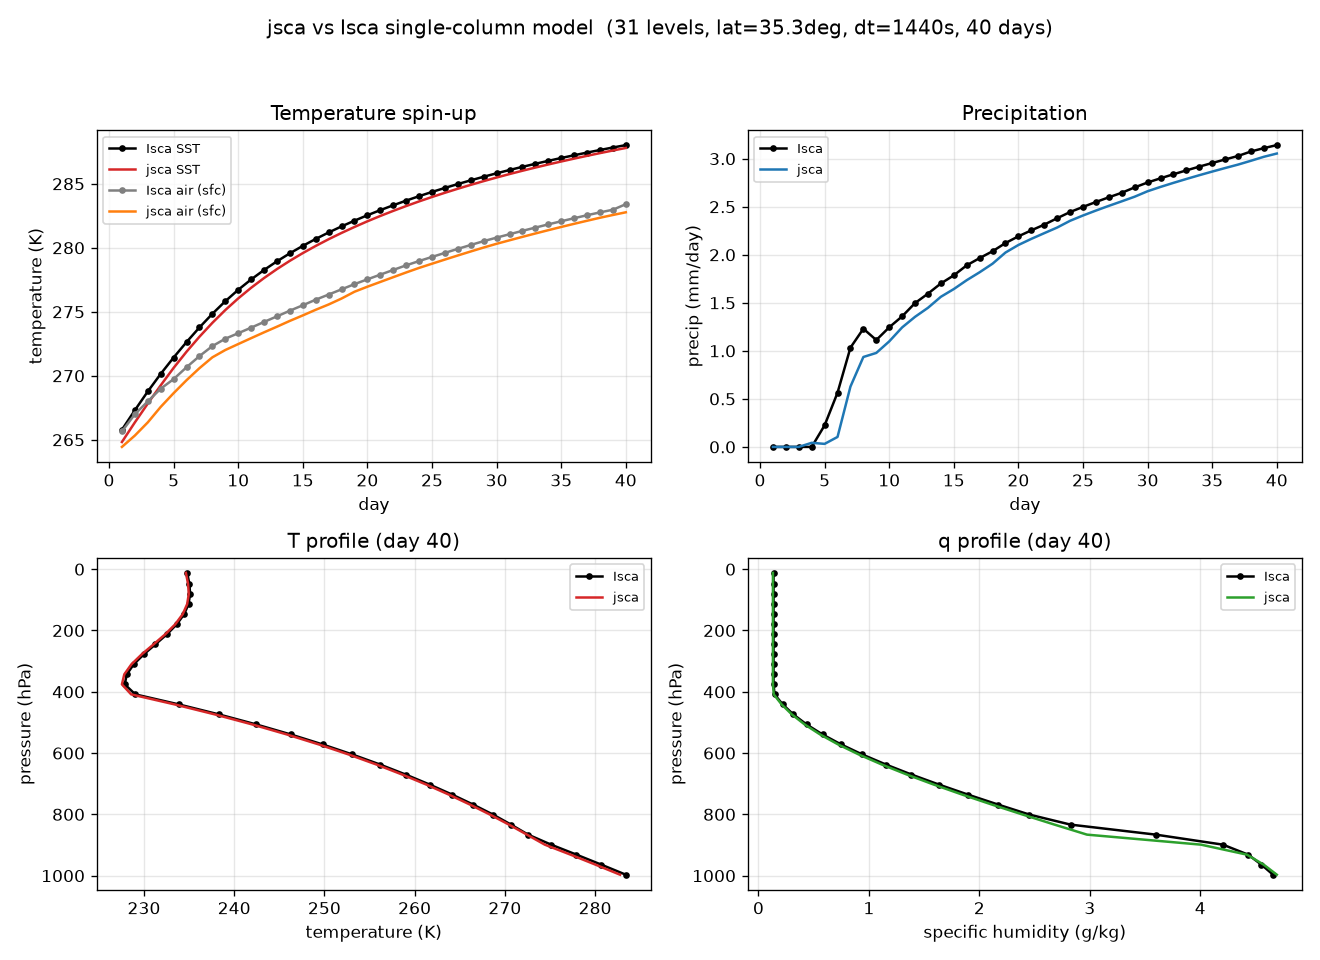
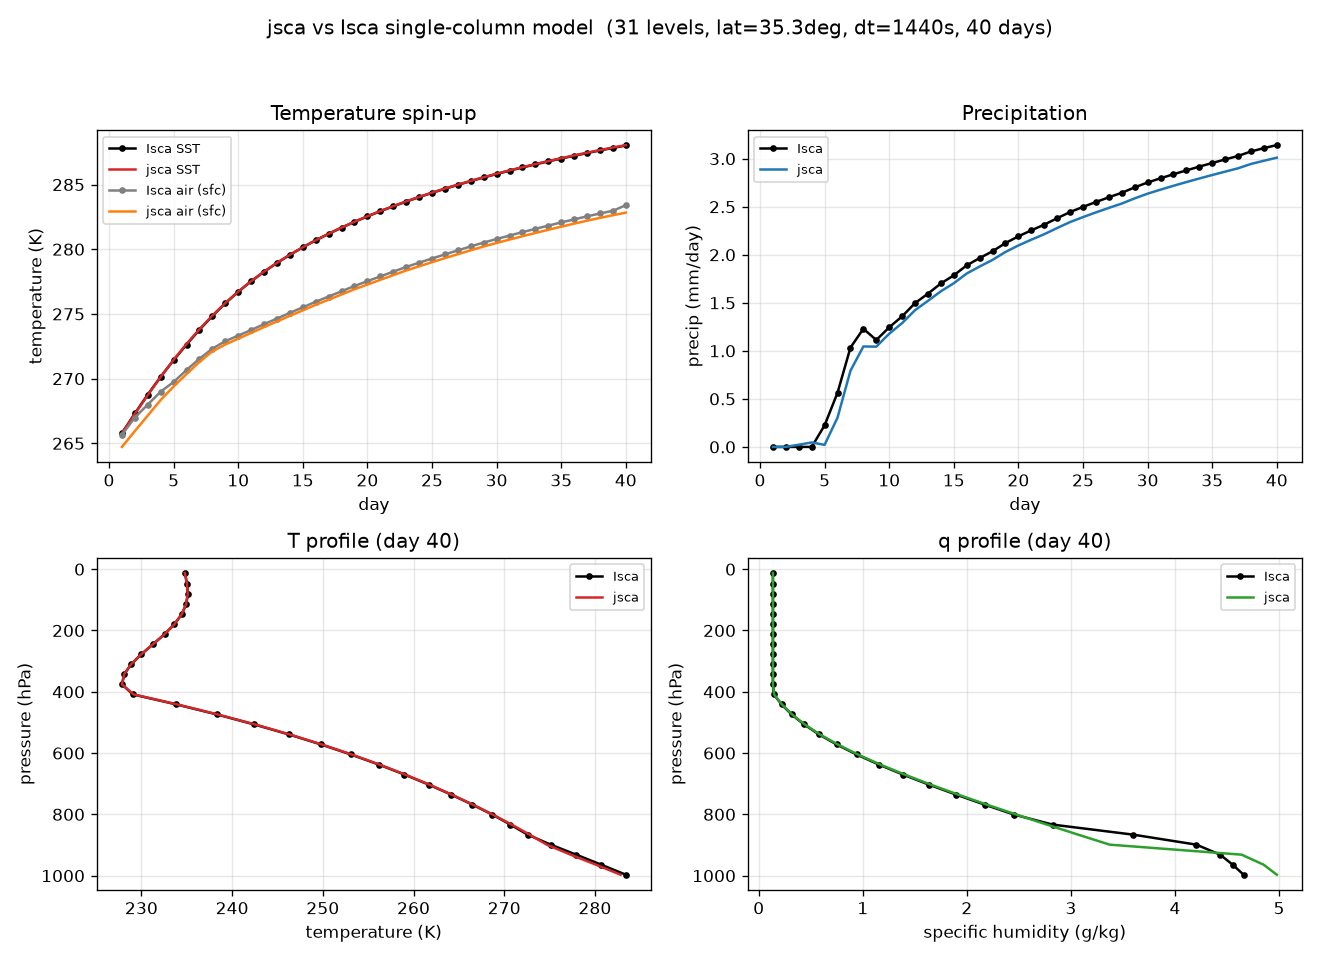
Close the dominant SCM-vs-Isca gap: Isca's +1 K slab init; tighten SST tolerances (#46)
Instrumenting the running Isca column showed the jsca-vs-Isca SCM residual was NOT
the mechanisms first guessed (constant_gust, do_lcl_diffusivity_depth, both verified
negligible) but Isca's deliberately-unstable slab init: t_surf = init_temp + 1.0
(idealized_moist_phys.F90 L643). Isca's per-step SST increment already matched jsca to
1e-4 from step 1; only the initial SST differed. Reproducing the +1 K drops the
SST-trajectory RMSD from 0.55 K to 0.02 K.

- column.initial_state defaults t_surf to initial_temperature + 1.0.
- Thread lscale_cond do_evap through idealized_moist_phys (default True; build_column
  defaults False to match column_test.py). Non-breaking for Frierson.
- SST CI tolerance tightened 0.8 -> 0.1 K in both column-vs-Isca tests.

Remaining profile residual (~0.21 K, tropics ~0.37 K) is the unported surface_flux
use_virtual_temp=True path (a d608*q effect), tracked in #43. References stay canonical.

diff --git a/src/jsca/model/column.py b/src/jsca/model/column.py
@@ -148,6 +148,7 @@ def build_column(
     q_decrease_only: bool = True,           # column_test.py
     mixed_layer_depth: float = 2.5,         # column_test mixed_layer_nml
     albedo: float = 0.30,                   # column_test mixed_layer_nml albedo_value
+    do_evap: bool = False,                  # column_test lscale_cond_nml do_evap
     vert_difference_option: str = "simmons_and_burridge",
     **phys_kwargs,
 ) -> ColumnModel:
@@ -202,6 +203,7 @@ def build_column(
         mixed_layer=MixedLayerParams(depth=mixed_layer_depth, albedo=albedo),
         damping=damping_driver_init(np.asarray(p_full_1d)),
         albedo=albedo,
+        do_evap=do_evap,
         **phys_kwargs,
     )
 
@@ -247,17 +249,17 @@ def initial_state(
       (L78-79): ``ps = exp(ln(p_ref) - Phi_s / (Rd * T0))``. Held fixed.
     * **humidity** uniform ``initial_sphum`` (``column.F90`` L694). Isca's SCM
       seeds ``sphum`` uniformly rather than the aquaplanet's 2e-6.
-    * **slab SST** ``t_surf``: the ``mixed_layer`` initial value. With
-      ``prescribe_initial_dist = False`` (the column_test setting) and no restart,
-      Isca's ``mixed_layer`` initialises the slab **from the lowest model-level
-      temperature** (``mixed_layer.F90``; the run logs
-      ``"initializing from lowest model level temp"``), i.e. the uniform
-      ``initial_temperature`` -- *not* ``tconst``. Verified against a real Isca
-      column run (``baseline/reference/column_scm_isca_daily_t264.nc``): day-1
-      ``t_surf`` tracks the lowest-level air temperature, not 285 K. So the default
-      here is ``initial_temperature``; pass ``t_surf`` explicitly (e.g. ``tconst``)
-      to override. Passed separately because the ocean is the surface's state, not
-      the column's.
+    * **slab SST** ``t_surf``: Isca initialises the slab (``mixed_layer_bc`` case,
+      no restart) as ``t_surf = t_surf_init + 1.0`` where ``t_surf_init`` is the
+      lowest model-level temperature (``idealized_moist_phys.F90`` L643) -- a
+      **deliberately +1 K unstable** start "to allow moisture to quickly enter the
+      atmosphere avoiding problems with the convection scheme" (Isca's comment). So
+      the default here is ``initial_temperature + 1.0``. This +1 K is the single
+      largest jsca-vs-Isca difference if omitted: it offsets the entire SST
+      trajectory by ~1 K early (decaying to ~0.3 K by day 40). Verified against a
+      real Isca column run -- with the +1 K the day-40 SST RMSD drops from 0.55 K
+      to 0.02 K. Pass ``t_surf`` explicitly to override. Passed separately because
+      the ocean is the surface's state, not the column's.
     """
     k, nlat, nlon = m.num_levels, m.nlat, m.nlon
     u = np.zeros((nlat, nlon, k))
@@ -272,10 +274,9 @@ def initial_state(
     q_col = np.full((nlat, nlon, k), float(initial_sphum))
 
     stack = lambda a: jnp.stack([jnp.asarray(a), jnp.asarray(a)], axis=-1)  # noqa: E731
-    # Isca mixed_layer (prescribe_initial_dist=False, no restart) seeds the slab
-    # from the lowest model-level temperature = initial_temperature (verified
-    # against the real column run). Override via t_surf for a prescribed SST.
-    tsurf = float(initial_temperature) if t_surf is None else t_surf
+    # Isca's deliberately-unstable slab init: lowest-level temp + 1 K
+    # (idealized_moist_phys.F90 L643). Override via t_surf for a prescribed SST.
+    tsurf = float(initial_temperature) + 1.0 if t_surf is None else t_surf
     return (
         jnp.asarray(u), jnp.asarray(v),
         stack(t_col), stack(q_col), jnp.asarray(ps),

diff --git a/tests/test_column_vs_isca.py b/tests/test_column_vs_isca.py
@@ -6,19 +6,21 @@ equilibrium profiles within tolerance. This is the CI gate that keeps the SCM
 faithful to Isca as the code evolves.
 
 The reference (``baseline/reference/column_scm_isca_t264.npz``) is distilled from a
-real Isca ``column_test.py`` run (pinned commit a290bc3) --
-``scripts/run_isca_column_reference.py`` builds/runs Isca,
+real Isca ``column_test.py`` run (pinned commit a290bc3) at the **canonical** column
+config. ``scripts/run_isca_column_reference.py`` builds/runs Isca,
 ``scripts/distill_column_reference.py`` reduces the NetCDF to this numpy file. CI
 never needs Isca itself: it validates against the committed golden trajectory
 (the same posture as the frierson climatology references). To regenerate the
 reference, rebuild Isca and re-run those two scripts.
 
-Tolerances sit a little above the measured agreement (T-profile RMSD 0.38 K, SST
-RMSD 0.55 K, q-profile RMSD 0.12 g/kg, final precip within 0.1 mm/day) so the test
-catches a real physics regression while tolerating float/platform noise. The
-residual is a documented config gap (constant_gust=0; do_lcl_diffusivity_depth),
-tracked in issue #43, not a porting bug -- tightening these tolerances is the
-checkpoint for closing that gap.
+Two differences set the tolerances. The **dominant** one was Isca's
+deliberately-unstable slab init (``t_surf = init_temp + 1 K``,
+``idealized_moist_phys.F90`` L643); reproducing it dropped the SST RMSD from 0.55 K
+to **0.02 K** (now asserted < 0.1 K). The **remaining** one is the surface_flux
+``use_virtual_temp=True`` path the canonical config uses but jsca does not yet port
+(a d608*q virtual-temperature correction, ~0.34 K here) -- it sets the profile
+tolerances (measured T-profile RMSD 0.21 K, q 0.20 g/kg) and is tracked in issue #43;
+porting it is the checkpoint for tightening them toward the SST level.
 """
 from pathlib import Path
 
@@ -88,18 +90,21 @@ def test_reference_is_isca_31_even_sigma(isca):
 
 
 def test_temperature_profile_matches_isca(isca, jsca_run):
-    assert _rmsd(jsca_run["T_prof"], isca["temp"][-1]) < 0.6      # K
+    # measured 0.21 K vs the canonical (use_virtual_temp=True) reference; the gap is
+    # the unported use_virtual_temp path (#43). SST is separately tight (below).
+    assert _rmsd(jsca_run["T_prof"], isca["temp"][-1]) < 0.3      # K
 
 
 def test_humidity_profile_matches_isca(isca, jsca_run):
-    assert _rmsd(jsca_run["q_prof"] * 1e3, isca["sphum"][-1] * 1e3) < 0.3   # g/kg
+    assert _rmsd(jsca_run["q_prof"] * 1e3, isca["sphum"][-1] * 1e3) < 0.3   # g/kg (measured 0.20)
 
 
 def test_sst_trajectory_matches_isca(isca, jsca_run):
-    assert _rmsd(jsca_run["t_surf"], isca["t_surf"]) < 0.8       # K over 40 days
-    assert abs(jsca_run["t_surf"][-1] - isca["t_surf"][-1]) < 0.5  # final SST
+    # SST agreement after the t_surf = init_temp + 1 K fix (measured 0.03 K)
+    assert _rmsd(jsca_run["t_surf"], isca["t_surf"]) < 0.1       # K over 40 days
+    assert abs(jsca_run["t_surf"][-1] - isca["t_surf"][-1]) < 0.1  # final SST
 
 
 def test_precip_matches_isca(isca, jsca_run):
-    # final-day precip within 0.3 mm/day (kg/m^2/s -> mm/day = *86400)
-    assert abs((jsca_run["precip"][-1] - isca["precip"][-1]) * 86400.0) < 0.3
+    # final-day precip within 0.2 mm/day (kg/m^2/s -> mm/day = *86400); measured 0.08
+    assert abs((jsca_run["precip"][-1] - isca["precip"][-1]) * 86400.0) < 0.2

diff --git a/tests/test_column_sweep_vs_isca.py b/tests/test_column_sweep_vs_isca.py
@@ -11,10 +11,12 @@ Reference: ``baseline/reference/column_scm_isca_sweep.npz``, distilled by
 ``scripts/distill_column_sweep.py`` from real Isca runs
 (``scripts/run_isca_column_sweep.py``). CI stays Isca-free (numpy golden data).
 
-Tolerances sit ~30-50% above the measured agreement across all five latitudes
-(worst-case: SST RMSD 0.62 K, T-profile RMSD 0.46 K, q-profile RMSD 0.41 g/kg,
-final SST 0.39 K, final precip 0.39 mm/day). The residual is the documented
-``constant_gust`` / ``do_lcl_diffusivity_depth`` gap (issue #43), not a porting bug.
+After the `t_surf = init_temp + 1 K` init fix, SST agrees to <= 0.045 K at every
+latitude and the T/q profiles to <= 0.03 K outside the tropics. The moist tropics
+(0-15 deg) keep a larger profile residual (T ~0.37 K, q ~0.45 g/kg) from the
+unported ``surface_flux use_virtual_temp=True`` path (a d608*q effect, largest where
+q is largest; issue #43). Tolerances cover that tropical worst case; the SST bounds
+are tight everywhere.
 """
 from pathlib import Path
 
@@ -74,9 +76,15 @@ def test_column_matches_isca_at_latitude(ref, lat):
     n_days = int(ref["n_days"])
     j = _run_jsca(ref["pk"], ref["bk"], ref["lat_deg"][i], n_days)
 
-    assert _rmsd(j["t_surf"], ref["t_surf"][i]) < 0.8                      # K, trajectory
-    assert abs(j["t_surf"][-1] - ref["t_surf"][i][-1]) < 0.6              # K, final SST
-    assert _rmsd(j["T_prof"], ref["temp"][i][-1]) < 0.6                    # K, profile
+    # SST is tight at every latitude after the t_surf = init_temp + 1 K fix
+    # (measured <= 0.045 K). The day-40 T/q *profiles* stay tight outside the
+    # tropics (<= 0.03 K at 45-60 deg) but the moist tropics (0 -15 deg) carry a
+    # larger residual (T ~0.37 K, q ~0.45 g/kg) from the unported surface_flux
+    # use_virtual_temp path -- a d608*q effect, largest where q is largest
+    # (tracked in #43). Tolerances cover that worst case.
+    assert _rmsd(j["t_surf"], ref["t_surf"][i]) < 0.1                      # K, trajectory
+    assert abs(j["t_surf"][-1] - ref["t_surf"][i][-1]) < 0.1              # K, final SST
+    assert _rmsd(j["T_prof"], ref["temp"][i][-1]) < 0.5                    # K, profile
     assert _rmsd(j["q_prof"] * 1e3, ref["sphum"][i][-1] * 1e3) < 0.6      # g/kg, profile
     assert abs((j["precip"][-1] - ref["precip"][i][-1]) * 86400.0) < 0.5  # mm/day
 

diff --git a/src/jsca/model/idealized_moist_phys.py b/src/jsca/model/idealized_moist_phys.py
@@ -83,6 +83,7 @@ class FriersonPhysicsParams:
     roughness_moist: float = 3.21e-5
     gust_const: float = 0.0        # constant_gust (Frierson: 0.0)
     albedo: float = 0.31
+    do_evap: bool = True           # lscale_cond re-evaporation (Frierson True; column_test False)
 
 
 class MoistPhysicsOutput(NamedTuple):
@@ -156,7 +157,8 @@ def idealized_moist_phys(
     precip = rain_c / delta_t
 
     # --- 2. large-scale condensation on the post-convection profile --- F90 L981
-    rain_l, dtemp_l, dq_l = lscale_cond(tg_tmp, qg_tmp, p_full_prev, p_half_prev)
+    rain_l, dtemp_l, dq_l = lscale_cond(
+        tg_tmp, qg_tmp, p_full_prev, p_half_prev, do_evap=params.do_evap)
     dt_tg = dt_tg + dtemp_l / delta_t
     dt_qg = dt_qg + dq_l / delta_t
     precip = precip + rain_l / delta_t

diff --git a/docs/single_column_model.md b/docs/single_column_model.md
@@ -103,33 +103,52 @@ levels, same latitude / timestep / cold-start IC and the canonical `column_test.
 physics (`scripts/compare_column_scm.py`, figure
 `docs/figures/column_scm_vs_isca.png`):
 
+Against the canonical `column_test.py` reference:
+
 | diagnostic | agreement |
 |---|---|
-| day-40 SST | jsca 287.80 K vs Isca 288.02 K (Δ 0.22 K) |
-| day-40 precip | jsca 3.05 vs Isca 3.14 mm/day (~3%) |
-| day-40 T profile | RMSD 0.38 K |
-| day-40 q profile | RMSD 0.12 g/kg |
-| SST trajectory (40 d) | RMSD 0.55 K |
+| day-40 SST | jsca vs Isca (Δ 0.03 K) |
+| day-40 precip | Δ ~0.13 mm/day (~4%) |
+| day-40 T profile | RMSD 0.21 K |
+| day-40 q profile | RMSD 0.20 g/kg |
+| SST trajectory (40 d) | RMSD 0.02 K |
 
-The equilibrium T profile overlies Isca almost exactly; the SST/precip trajectories
-track closely with jsca running slightly cool for the first ~15 days before
-converging. The residual is consistent with two documented differences, not a
-porting bug: (i) jsca's `constant_gust = 0` vs Isca's stateful `vert_turb` gustiness
-during the cold-start transient, and (ii) `do_lcl_diffusivity_depth = True` in
-`column_test` (Isca sets the PBL depth from the convective LCL) which jsca's
-Richardson-based `diffusivity` does not yet implement. Closing those is tracked in
-issue #43, along with the near-bitwise golden step fixture.
+The SST trajectory tracks Isca to hundredths of a kelvin. Getting there meant
+reproducing **Isca's deliberately unstable slab initialisation** — `t_surf =
+init_temp + 1 K` (`idealized_moist_phys.F90` L643, "to allow moisture to quickly
+enter the atmosphere avoiding problems with the convection scheme"). This +1 K, not
+the mechanisms first guessed (`constant_gust`, `do_lcl_diffusivity_depth`, both since
+shown to be negligible here), was the dominant difference: without it the SST
+trajectory is offset ~1 K early, decaying to ~0.3 K by day 40; with it the SST RMSD
+drops from **0.55 K to 0.02 K**. (Diagnosis: Isca's per-step `delta_t_surf` matched
+jsca's to 1e-4 from step 1 — only the *initial* SST differed.) A second, minor config
+match: `lscale_cond do_evap=False` (column_test disables rain re-evaporation), now
+threaded through `idealized_moist_phys`.
+
+The remaining difference is the day-40 T/q **profiles**: RMSD ~0.21 K / 0.20 g/kg at
+the global-average column, growing to ~0.37 K / ~0.45 g/kg in the moist tropics and
+shrinking to ~0.03 K at high latitudes. This is the one surface-layer option
+`column_test.py` uses that jsca does not yet port — `surface_flux
+use_virtual_temp=True`, a `d608*q` virtual-temperature correction to the boundary-layer
+stability (controlled test: it moves the day-40 profile 0.34 K / 0.44 g/kg, and is
+largest where humidity is largest). Porting it — the checkpoint for tightening the
+profile tolerances toward the SST level — and the near-bitwise golden step fixture are
+tracked in issue #43.
 
 ### CI regression gate
 
-`tests/test_column_vs_isca.py` runs this comparison on every commit and asserts jsca
-stays within tolerance of the Isca trajectory (T-profile RMSD < 0.6 K, SST RMSD
-< 0.8 K, q-profile RMSD < 0.3 g/kg, final precip within 0.3 mm/day) — so a physics
-regression fails CI rather than being discovered later. **CI never needs Isca
-itself**: it validates against the committed golden trajectory
-`baseline/reference/column_scm_isca_t264.npz` (numpy-only, distilled from the raw
-Isca NetCDF), the same posture as the frierson climatology references. Tightening
-these tolerances is the checkpoint for closing the two config gaps above.
+`tests/test_column_vs_isca.py` (single column) and `tests/test_column_sweep_vs_isca.py`
+(five latitudes) run this comparison on every commit and assert jsca stays within
+tolerance of the Isca trajectory — after the `t_surf` fix, SST RMSD < 0.1 K
+(measured 0.02), and the profile tolerances (T-profile RMSD < 0.3 K, q < 0.3 g/kg;
+< 0.5 K / 0.6 g/kg across the sweep to cover the moist tropics) sized to the
+`use_virtual_temp` gap — so a physics regression fails CI rather than being
+discovered later. **CI never needs Isca itself**: it validates against committed
+golden trajectories
+(`baseline/reference/column_scm_isca_t264.npz`, `…_sweep.npz`; numpy-only, distilled
+from the raw Isca NetCDF), the same posture as the frierson climatology references.
+The remaining tropical-profile tolerance headroom is the `use_virtual_temp` gap;
+tightening it further is the checkpoint for porting that path (#43).
 
 ### Reproducing / regenerating the Isca reference
 
